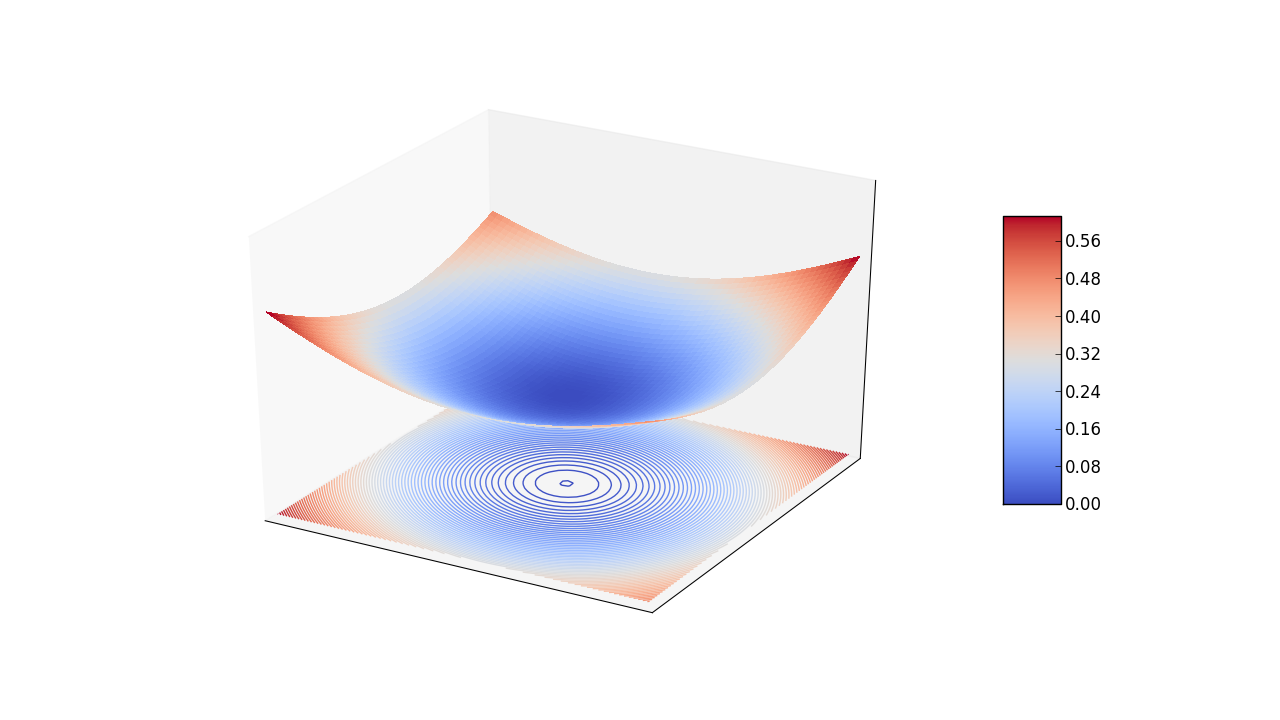
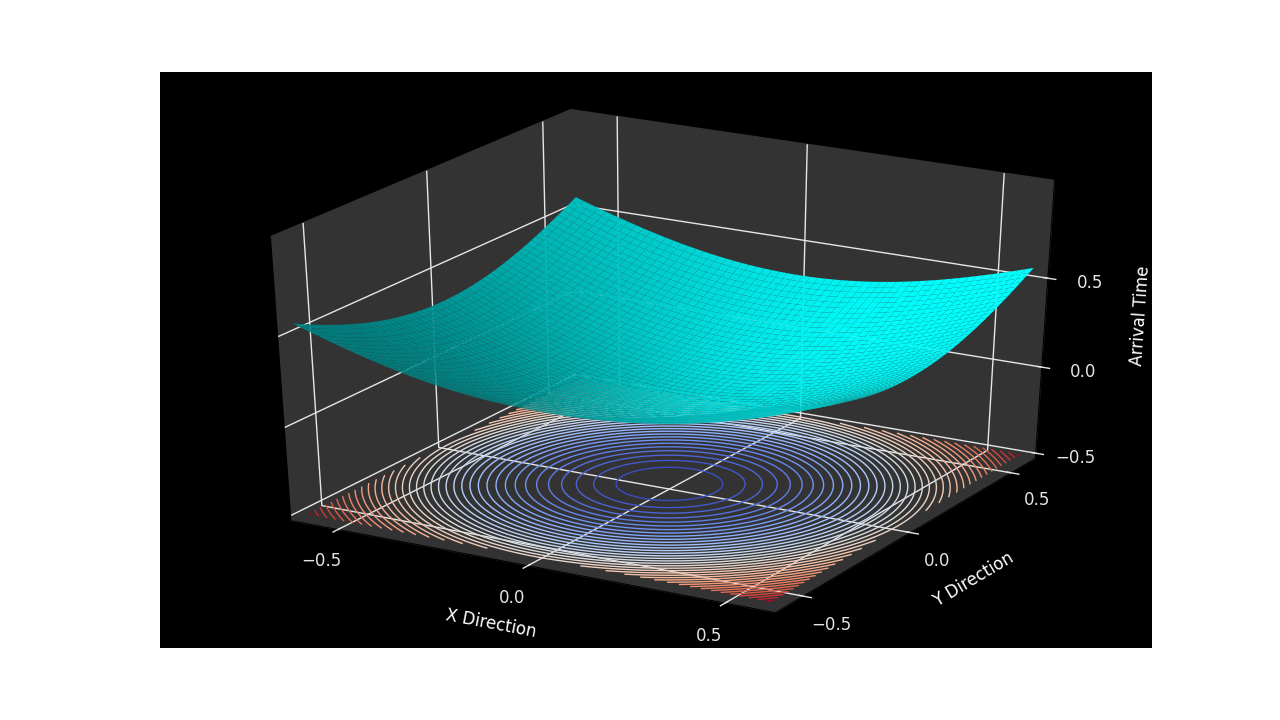
finished tuto scripts

diff --git a/docs/tuto-scripts/topo_rk.py b/docs/tuto-scripts/topo_rk.py
@@ -1,0 +1,76 @@
+from mpl_toolkits.mplot3d import Axes3D
+import matplotlib as mpl
+
+#mpl.use("Agg")
+
+from matplotlib import cm
+from pylab import figure, show, savefig
+from numpy import linspace, meshgrid, sin, log
+
+
+rmax = 0.6
+X = linspace(-rmax,rmax,60)
+Y = 1*X
+X, Y = meshgrid(X, Y)
+zmax = 1
+zmin = -0.5  
+
+R = (X**2 + Y**2)**0.5
+S1 = ((X+0.2)**2 + (Y-0.2)**2)**0.5
+S2 = ((X-0.2)**2 + (Y+0.2)**2)**0.5
+g = ((X-.03)**2 + Y**2)**.5
+h = ((X)**2 + Y**2)**.5
+Z = [0,0,0,0,0]
+Z[0] = sin(R)**2 #- (g+0.01)*0.01 + 0.2*X*Y
+Z[1] = sin(R)**2 - log(g+0.01)*0.3 + 0.2*X*Y
+Z[2] = sin(R)**2 - log(h)*0.3
+Z[3] = sin(R*1.5)**2 - log(g)*0.3
+Z[4] = (S1*S2)**0.5
+
+doplot = range(len(Z))
+#doplot = [4]
+
+for i in doplot:
+
+  print "figure", i
+
+  fig = figure(figsize=(12.8, 7.2)) #go for 1200x720 with 100dpi
+  fig.patch.set_facecolor('black')
+  ax = fig.gca(projection='3d')
+  ax.patch.set_facecolor('black')
+
+  ticks = [-0.5,0,0.5]
+  ax.xaxis.set_ticks(ticks)
+  ax.yaxis.set_ticks(ticks)
+  ax.zaxis.set_ticks(ticks)
+
+  col2 = (0.9,)*3
+  ax.tick_params(axis='x', colors=col2)
+  ax.tick_params(axis='y', colors=col2)
+  ax.tick_params(axis='z', colors=col2)
+  
+  surf = ax.plot_surface(X, Y, Z[i], rstride=1, cstride=1, 
+    #cmap=cm.coolwarm,
+    color="cyan",
+    linewidth=0, antialiased=True)
+   
+  cset = ax.contour(X, Y, Z[i], 50, zdir='z', offset=zmin, cmap=cm.coolwarm)
+  #ax.clabel(cset, fontsize=9, inline=1)
+  
+  col= 0.2
+  ax.w_xaxis.set_pane_color((col, col, col, 1.0))
+  ax.w_yaxis.set_pane_color((col, col, col, 1.0))
+  ax.w_zaxis.set_pane_color((col, col, col, 1.0))
+  
+  ax.set_xlabel('X Direction')
+  ax.set_ylabel('Y Direction')
+  ax.set_zlabel('Arrival Time')
+  ax.xaxis.label.set_color("white")
+  ax.yaxis.label.set_color("white")
+  ax.zaxis.label.set_color("white")
+
+  ax.set_zlim(zmin, zmax)
+  #fig.colorbar(surf, shrink=0.5, aspect=5)
+  #show()
+  savefig('fig'+str(i)+'.png', dpi=100)
+
